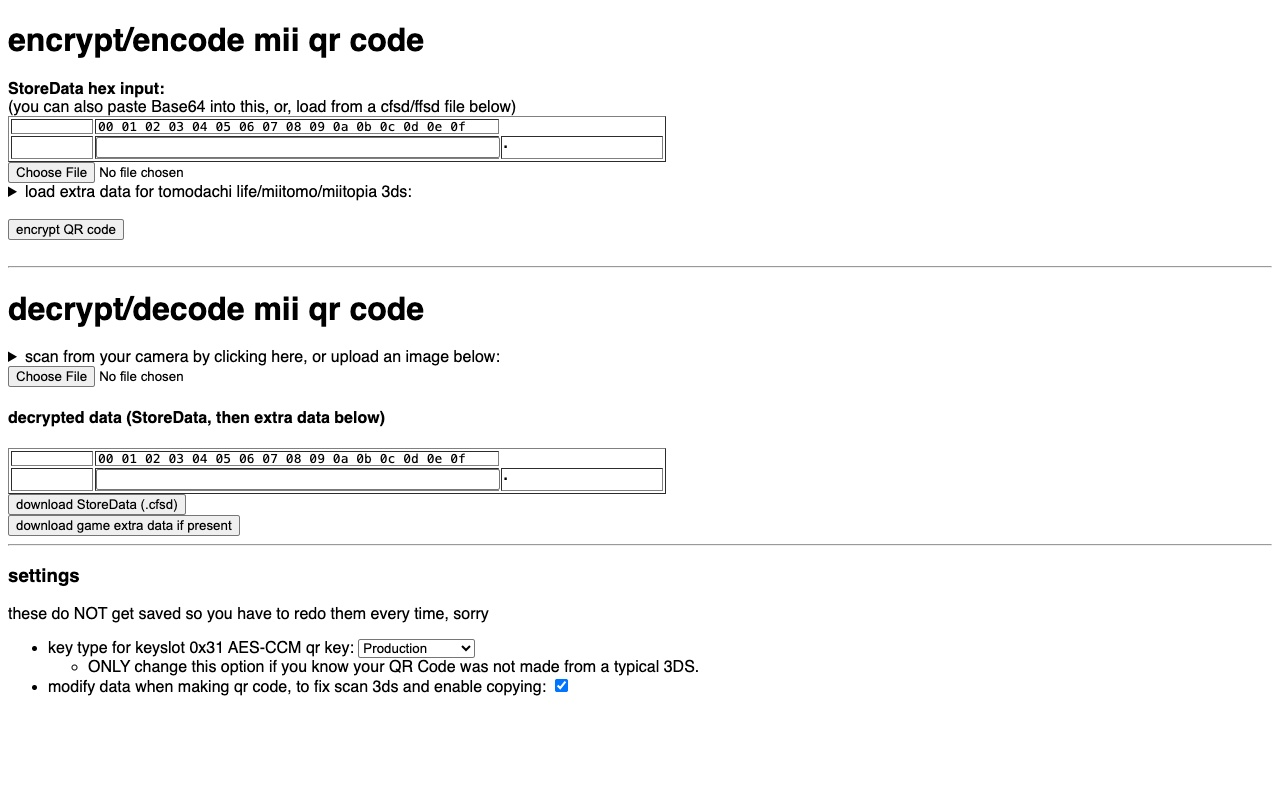
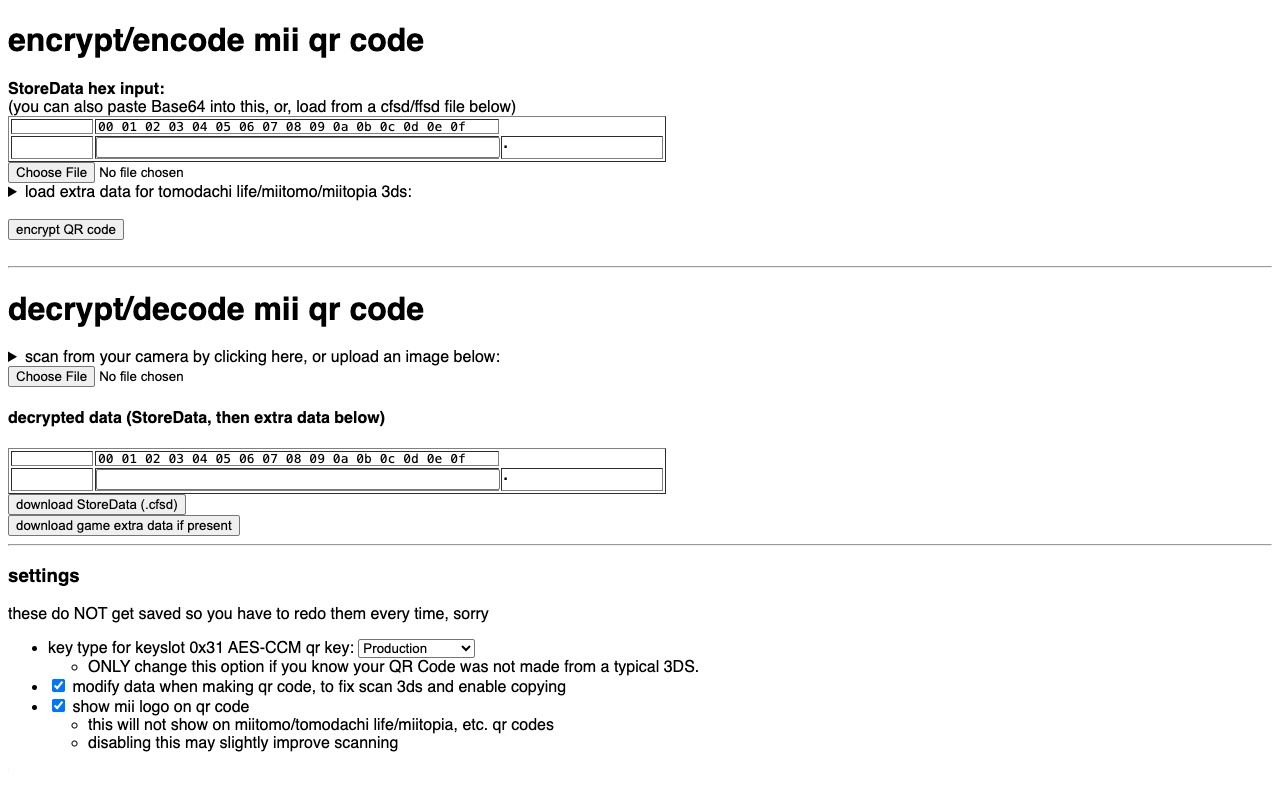
mii-tomo-dachi-topia-qr-tool: revision 23
Fiddle-Id: ckya346z
Fiddle-Revision: 23

Changed region(s): [[0.0312, 0.8438, 0.4688, 0.9375]]

diff --git a/mii-tomo-dachi-topia-qr-tool/style.css b/mii-tomo-dachi-topia-qr-tool/style.css
@@ -2,6 +2,11 @@ body {
   font-family: sans-serif;
 }
 
+@font-face {
+    font-family: nintendo_NTLG;
+    src: url(nintendo_NTLG.woff2);
+}
+
 .tab-content {
   display: none;
 }
@@ -41,6 +46,6 @@ table, table * {
 .ascii-output {
   overflow: hidden;
 }
-#extra-data-warning {
+.warning {
     color: red;
 }

diff --git a/mii-tomo-dachi-topia-qr-tool/index.html b/mii-tomo-dachi-topia-qr-tool/index.html
@@ -12,7 +12,6 @@
       }
     }
   </script>
-  <link rel="stylesheet" href="style.css">
 <link rel="stylesheet" href="style.css">
 </head>
   <body>
@@ -163,14 +162,12 @@
                 <input id="qr-modify-storedata" name="qr-modify-storedata" type="checkbox" checked>
                 <label for="qr-modify-storedata">modify data when making qr code, to fix scan 3ds and enable copying</label>
             </li>
-            <!--
             <li>
             	<input id="qr-enable-logo" name="qr-enable-logo" type="checkbox" checked>
                 <label for="qr-enable-logo">show mii logo on qr code</label>
                 <ul><li>this will not show on miitomo/tomodachi life/miitopia, etc. qr codes</li>
                     <li>disabling this may slightly improve scanning</li></ul>
             </li>
-            -->
 
         </ul>
     </form>
@@ -229,6 +226,9 @@
         });
       })();
     </script>
+
+    <!-- preload font with this element, w/o this the font will just not appear Thanks -->
+    <div style="font-family: nintendo_NTLG; font-size: 3px;">.</div>
 <script type="module" src="script.js"></script>
 </body>
 </html>